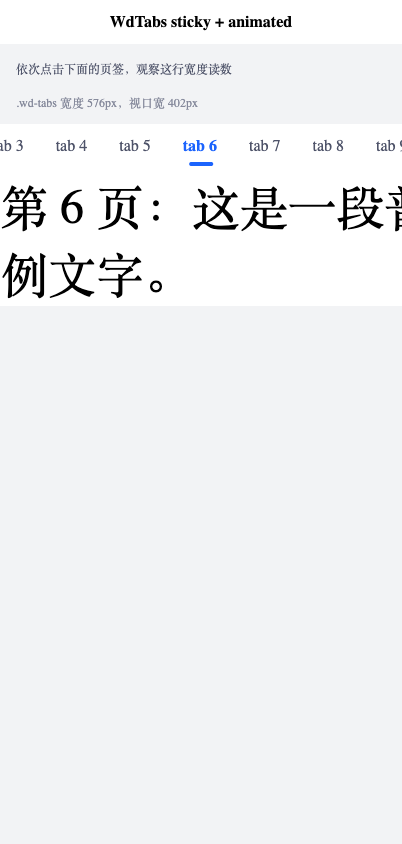
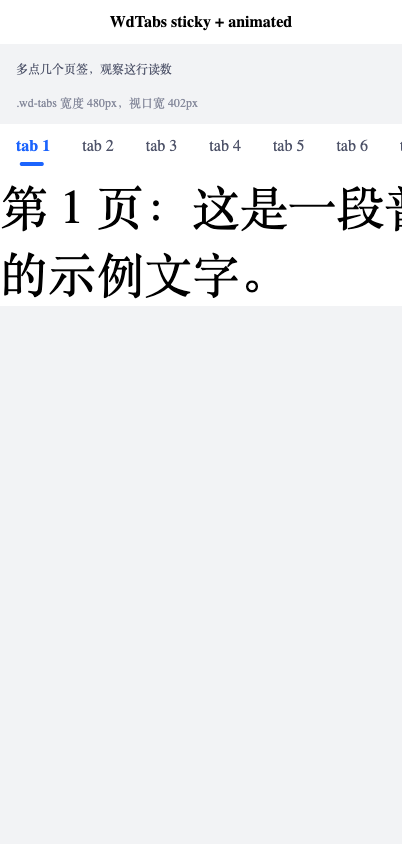
docs: 复现步骤不再要求按顺序点页签

diff --git a/src/pages/index/index.vue b/src/pages/index/index.vue
@@ -28,7 +28,7 @@ onMounted(() => {
 <template>
   <view>
     <view class="wot-p-extra-loose wot-text-label-main wot-text-text-secondary">
-      依次点击下面的页签，观察这行宽度读数
+      多点几个页签，观察这行读数
     </view>
     <view class="wot-px-extra-loose wot-pb-loose wot-text-label-main wot-text-text-auxiliary">
       <!-- #ifdef H5 -->
